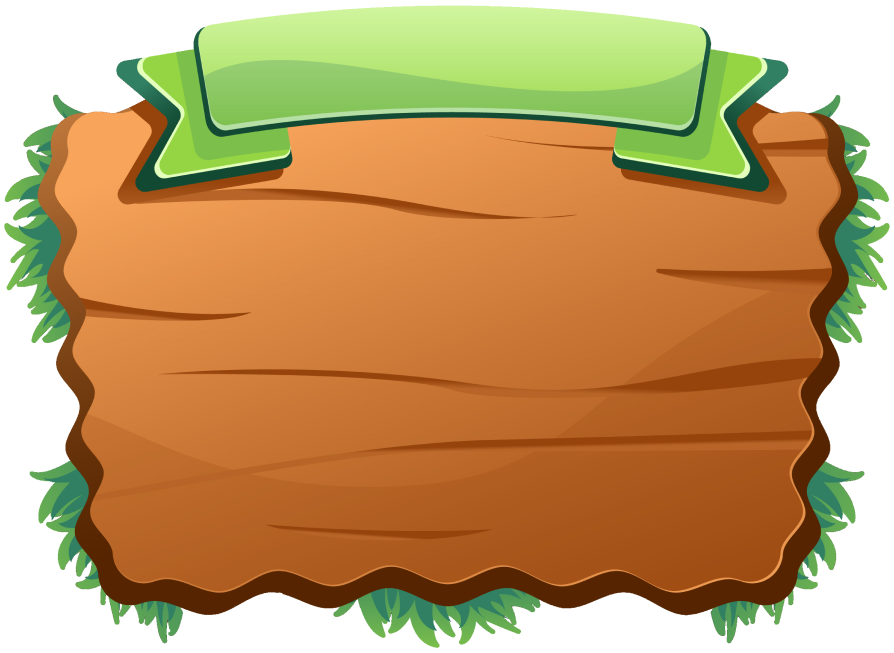
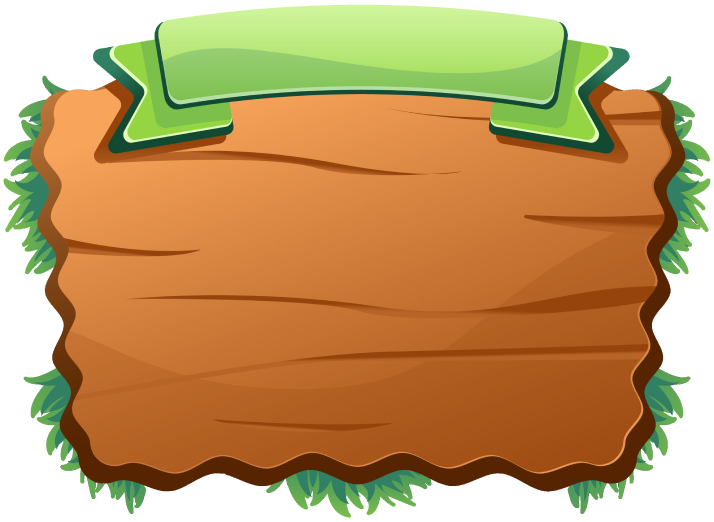
quiz show ect

Changed region(s): [[0.4622, 0.1533, 0.5546, 0.1839]]

diff --git a/app/assets/stylesheets/components/_quiz-show.scss b/app/assets/stylesheets/components/_quiz-show.scss
@@ -9,8 +9,8 @@
 
   text-shadow: 0px 4px 0px rgba(0, 0, 0, 0.25);
   position: absolute;
-  top: 18%;
-  left: 39%;
+  top: 4%;
+  left: 25.5%;
 }
 
 .custom-btn-start-qs {
@@ -39,7 +39,7 @@ position: absolute;
 display: flex;
 align-items: center;
 justify-content: center;
-left: 43.5%;
+left: 35.5%;
 right: 31.68%;
 top: 59.78%;
 bottom: 29.02%;
@@ -70,12 +70,33 @@ font-family: "Kiddosy regular"
 
 .panneau{
   position: relative;
+  top: 0%;
+  height: 500px;
+  width: 700px;
+  margin: 0 auto;
+  margin-top: 100px;
 }
 
 
 .panneau-img{
-  position: absolute;
-  left: 27.5%;
-  top: 15%;
   height: 500px;
+}
+
+.pannel-place{
+  position: absolute;
+  left: 25%;
+}
+
+.answers{
+  background-color: white;
+  position: absolute;
+  top: 34%;
+  left: 18%;
+  width: 428px;
+  height: 230px;
+
+}
+
+.question-title{
+
 }
